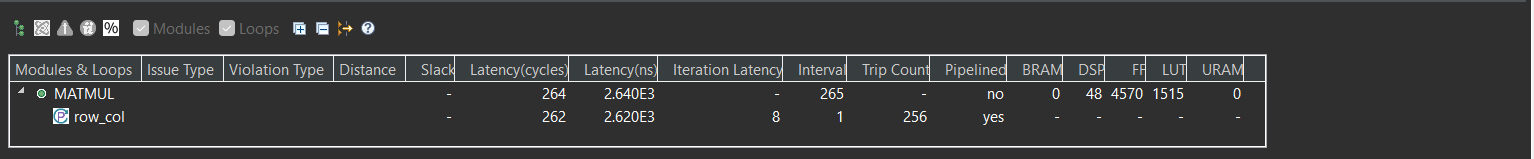
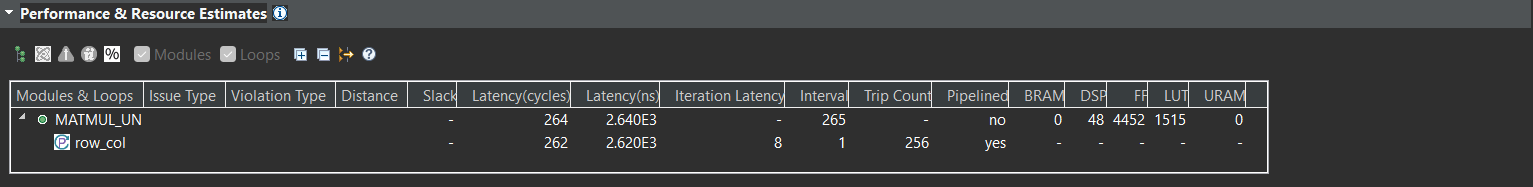
made changes

diff --git a/matmul/mat_mul_stream.cpp b/matmul/mat_mul_stream.cpp
@@ -9,7 +9,7 @@
 typedef ap_axiu<512, 0, 0, 0> axis_512_t;
 
 void MATMUL(hls::stream<axis_512_t> &s_axis,
-                   hls::stream<axis_512_t> &m_axis) {
+            hls::stream<axis_512_t> &m_axis) {
 
     #pragma HLS INTERFACE axis port=s_axis
     #pragma HLS INTERFACE axis port=m_axis
@@ -19,9 +19,10 @@ void MATMUL(hls::stream<axis_512_t> &s_axis,
     int B[M][P];
     int AB[N][P];
 
-    // =====================================================
-    // STAGE 1 — Load A (16 packets, one row per packet)
-    // =====================================================
+    #pragma HLS ARRAY_PARTITION variable=A  type=complete dim=2
+    #pragma HLS ARRAY_PARTITION variable=B  type=complete dim=1
+    #pragma HLS ARRAY_PARTITION variable=AB type=complete dim=0
+
     load_A: for(int i = 0; i < N; i++) {
         #pragma HLS PIPELINE II=1
         axis_512_t pkt = s_axis.read();
@@ -31,9 +32,6 @@ void MATMUL(hls::stream<axis_512_t> &s_axis,
         }
     }
 
-    // =====================================================
-    // STAGE 2 — Load B (16 packets, one row per packet)
-    // =====================================================
     load_B: for(int i = 0; i < M; i++) {
         #pragma HLS PIPELINE II=1
         axis_512_t pkt = s_axis.read();
@@ -43,20 +41,10 @@ void MATMUL(hls::stream<axis_512_t> &s_axis,
         }
     }
 
-    // =====================================================
-    // STAGE 3 — YOUR EXACT COMPUTATION BLOCK
-    // =====================================================
-    #pragma HLS ARRAY_PARTITION variable=A  type=complete dim=2
-    #pragma HLS ARRAY_PARTITION variable=B  type=complete dim=1
-    #pragma HLS ARRAY_PARTITION variable=AB type=complete dim=0
-
     row: for(int i = 0; i < N; ++i) {
-        #pragma HLS LOOP_FLATTEN
+        #pragma HLS PIPELINE II=4
         col: for(int j = 0; j < P; ++j) {
-            #pragma HLS LOOP_FLATTEN
-
             int acc = 0;
-
             product: for(int k = 0; k < M; ++k) {
                 #pragma HLS UNROLL
                 acc += A[i][k] * B[k][j];
@@ -65,9 +53,6 @@ void MATMUL(hls::stream<axis_512_t> &s_axis,
         }
     }
 
-    // =====================================================
-    // STAGE 4 — Stream out AB (16 packets, one row each)
-    // =====================================================
     store: for(int i = 0; i < N; i++) {
         #pragma HLS PIPELINE II=1
         ap_uint<512> result = 0;

diff --git a/matmul/mat_mul_raw.cpp b/matmul/mat_mul_raw.cpp
@@ -4,25 +4,15 @@
 
 void MATMUL_RAW(int A[N][M], int B[M][P], int AB[N][P]) {
 
-
-    #pragma HLS ARRAY_PARTITION variable=A type=complete dim=2
-
-
-    #pragma HLS ARRAY_PARTITION variable=B type=complete dim=1
-
-
+    #pragma HLS ARRAY_PARTITION variable=A  type=complete dim=2
+    #pragma HLS ARRAY_PARTITION variable=B  type=complete dim=1
     #pragma HLS ARRAY_PARTITION variable=AB type=complete dim=0
 
     row: for(int i = 0; i < N; ++i) {
-       //#pragma HLS LOOP_FLATTEN
-#pragma HLS UNROLL
+        #pragma HLS PIPELINE II=4
+
         col: for(int j = 0; j < P; ++j) {
-            //#pragma HLS PIPELINE II=1
-            //#pragma HLS LOOP_FLATTEN
-#pragma HLS UNROLL
-
             int acc = 0;
-
             product: for(int k = 0; k < M; ++k) {
                 #pragma HLS UNROLL
                 acc += A[i][k] * B[k][j];

diff --git a/matmul/matmul_unoptimized.cpp b/matmul/matmul_unoptimized.cpp
@@ -1,18 +1,23 @@
 #define N 16
 #define M 16
 #define P 16
-void MATMUL(int A[N][M], int B[M][P], int AB[N][P]) {
+void MATMUL_UN(int A[N][M], int B[M][P], int AB[N][P])
+{
 int x = 0;
-#pragma HLS ARRAY RESHAPE variable=A complete dim=2
-#pragma HLS ARRAY RESHAPE variable=B complete dim=1
-row: for(int i = 0; i < N; ++i) {
-col: for(int j = 0; j < P; ++j) {
+#pragma HLS ARRAY_PARTITION variable=A  type=complete dim=2
+    #pragma HLS ARRAY_PARTITION variable=B  type=complete dim=1
+row: for(int i = 0; i < N; ++i)
+{
+col: for(int j = 0; j < P; ++j)
+{
 #pragma HLS PIPELINE II=1
-product: for(int k = 0; k < M; ++k) {
+	x=0;
+product: for(int k = 0; k < M; ++k)
+{
 x =x+ A[i][k] * B[k][j];
 }
 AB[i][j] = x;
-x=0;
+
 }
 }
 }
